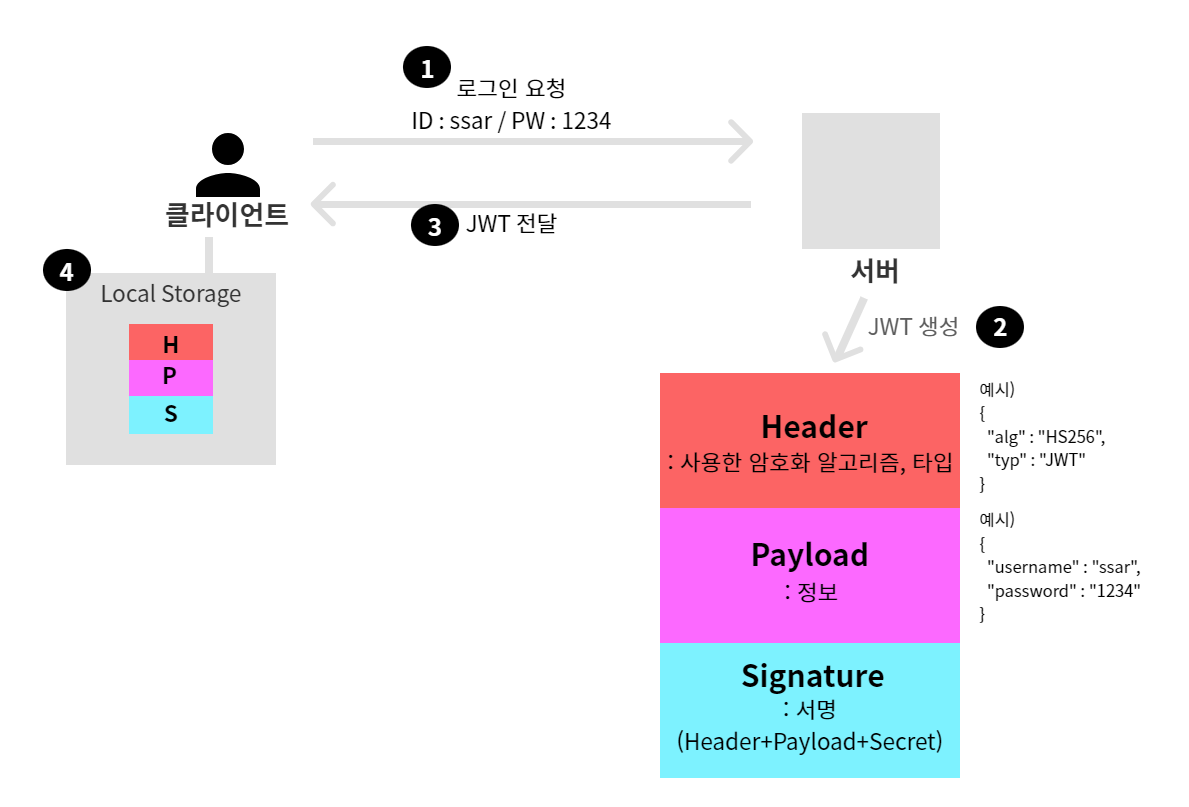
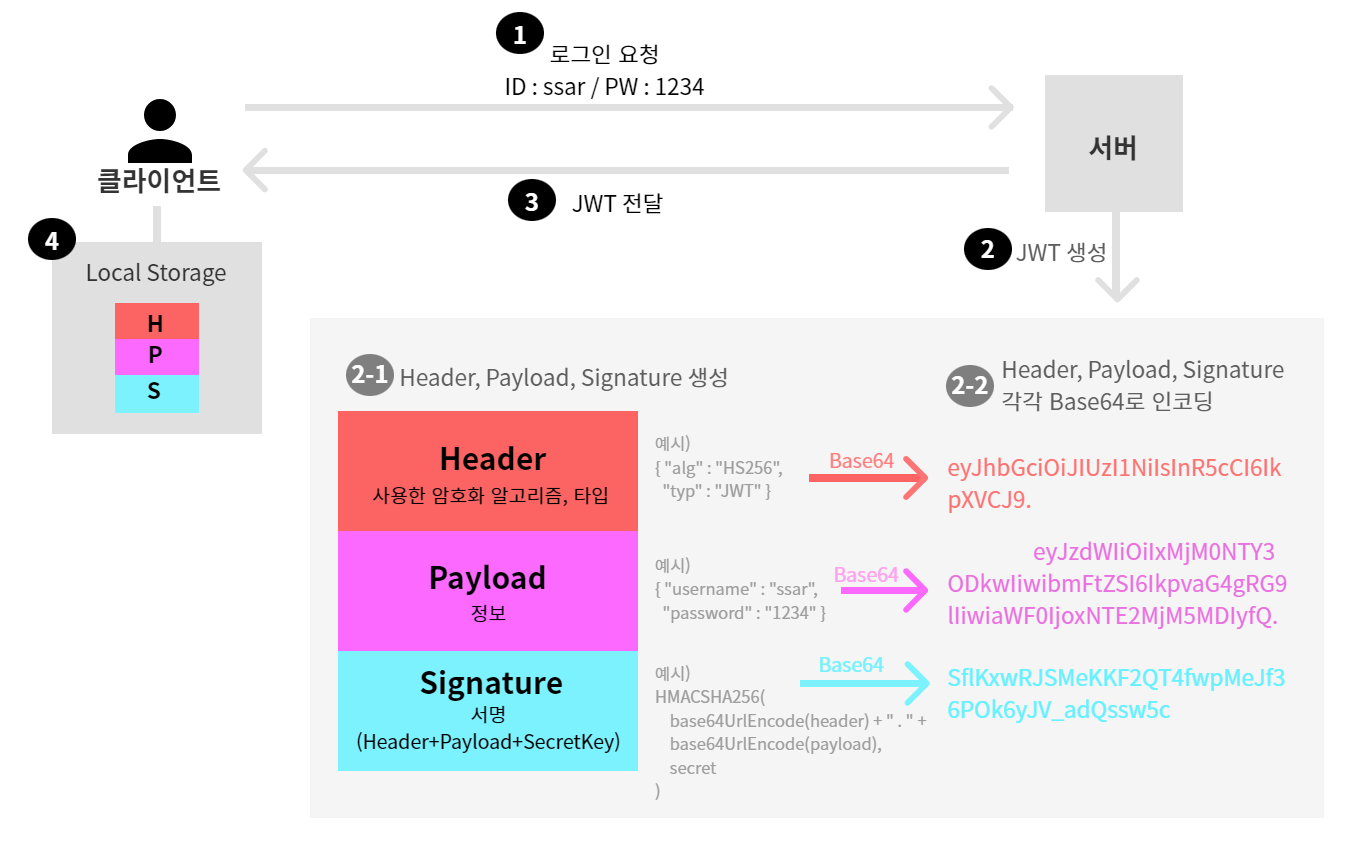
chapter17 : JWT생성 및 이용

diff --git a/study/chapter_17.md b/study/chapter_17.md
@@ -1,13 +1,28 @@
 # 17강. JWT 구조 이해
+## 17-1. JWT 개념
 - JWT는 당사자간에 정보를 JSON객체로 안전하게 전송하기 위한 컴팩트하고 독립적인 방식을 정의하는 개방형 표준이다.
-- JWT를 암호화하여 당사자간에 비밀을 주고받을 수도 있지만, 가장 중요한건 서명된 토큰!
-    - 내가 만든 JWT는 "내가 쓴게 맞아"라는 서명의 용도로 이용가능
+- JWT를 암호화하여 당사자간 암호화 된 데이터를 주고받을 수도 있지만, JWT는 이러한 암호화의 기능보다는 '서명'이 보다 주된 기능이다.
+    - ex. 내가 만든 JWT를 통해 "이건 내가 만든게 맞아"라는 서명의 용도로 이용이 가능하다.
 
 - JWT구조
     - Header : 헤더
-        - 사용한 알고리즘, 타입
+        - 사용한 알고리즘, 타입 등을 명시한다.
     - Payload : 정보
     - Signature : 서명
-        - 헤더, 정보, 개인키 세가지를 HMACSHA256으로 암호화
+        - "(1)헤더, (2)정보, (3)서버의 Secret Key" 이 세가지를 합쳐 암호화 되어있다.
 
+## 17-2. JWT 생성 및 이용
 <img src="./img/chapter17_1.png">
+
+1. 클라이언트가 서버에게 로그인 요청을 보낸다. (ID:ssar / PW:1234)
+2. **로그인 인증이 완료된 후,** 서버는 앞서 세션방식처럼 세션을 만드는 것이 아니라 JWT를 만든다. → **인증완료 후 JWT생성**
+    - 2-1. JWT의 구조 : Header, Payload, Signature
+        - Header : 사용한 암호화 알고리즘, 타입 명시
+        - Payload : 로그인 정보
+        - Signature : "Header + Payload + (서버만 알고 있는) Secret Key" 이 세가지 정보를 헤더에 명시해준 알고리즘으로 암호화한다.
+    - 2-2. 생성한 Header, Payload, Signature 각각을 Base64로 인코딩해준다.
+    - 2-3. 예시
+        <img src="./img/chapter17_2.png">
+
+3. 생성한 JWT를 클라이언트에게 전달한다.
+4. 클라이언트는 전달받은 JWT를 local storage와 같은 영역에 저장해둔다.
